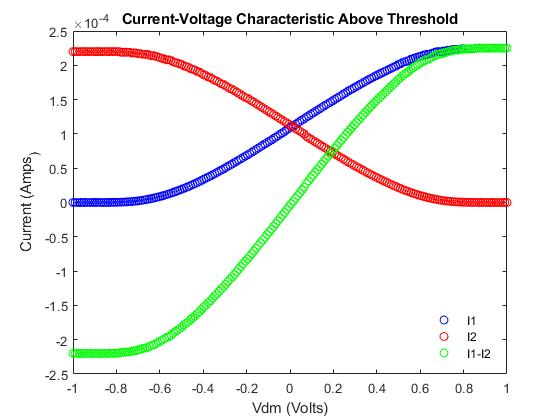
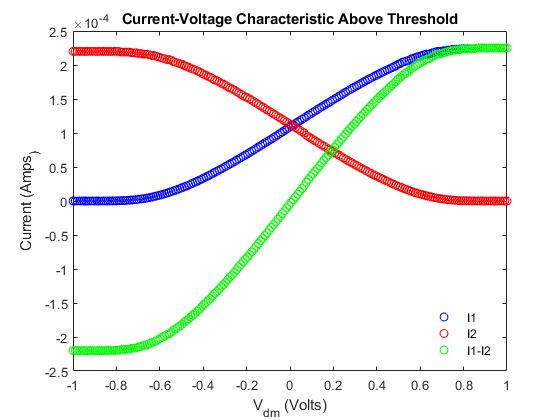
updates from lab 7

diff --git a/Lab_7_Differential_Pairs/Lab7_aboveThresh.m b/Lab_7_Differential_Pairs/Lab7_aboveThresh.m
@@ -7,23 +7,26 @@ Vdm = Vdm_big_range;
 Vcs = V_node_above_3V;
 %% Current Plot
 Idiff = I1 - I2;
+Imore = I1 + I2;
 
 figure;
-plot(Vdm,I1,'bo')
+plot(Vdm,I1,'b.')
 hold on;
-plot(Vdm,I2,'ro')
+plot(Vdm,I2,'r.')
 hold on;
-plot(Vdm,Idiff,'go')
+plot(Vdm,Idiff,'g.')
+hold on
+plot(Vdm,Imore,'m.')
 
 
 %Legend
-legend('I1','I2','I1-I2');
+legend('I1','I2','I1-I2','I1+I2');
 legend('boxoff')
 legend('Location','southeast')
 
 %Labels
-title('Current-Voltage Characteristic Above Threshold');
-xlabel("Vdm (Volts)");
+title('Differentail Pair Currents, Above Threshold (V_{b} = 1.5)');
+xlabel("V_{dm} (Volts)");
 ylabel("Current (Amps_)");
 
 hold off;
@@ -34,5 +37,5 @@ plot(Vdm,Vcs,'bo')
 
 %Labels
 title('Common-Source Voltage vs. Differential-Mode Voltage');
-xlabel("Vdm (Volts)");
-ylabel("Vcs (Volts)");
+xlabel("V_{dm} (Volts)");
+ylabel("V_{cs} (Volts)");
